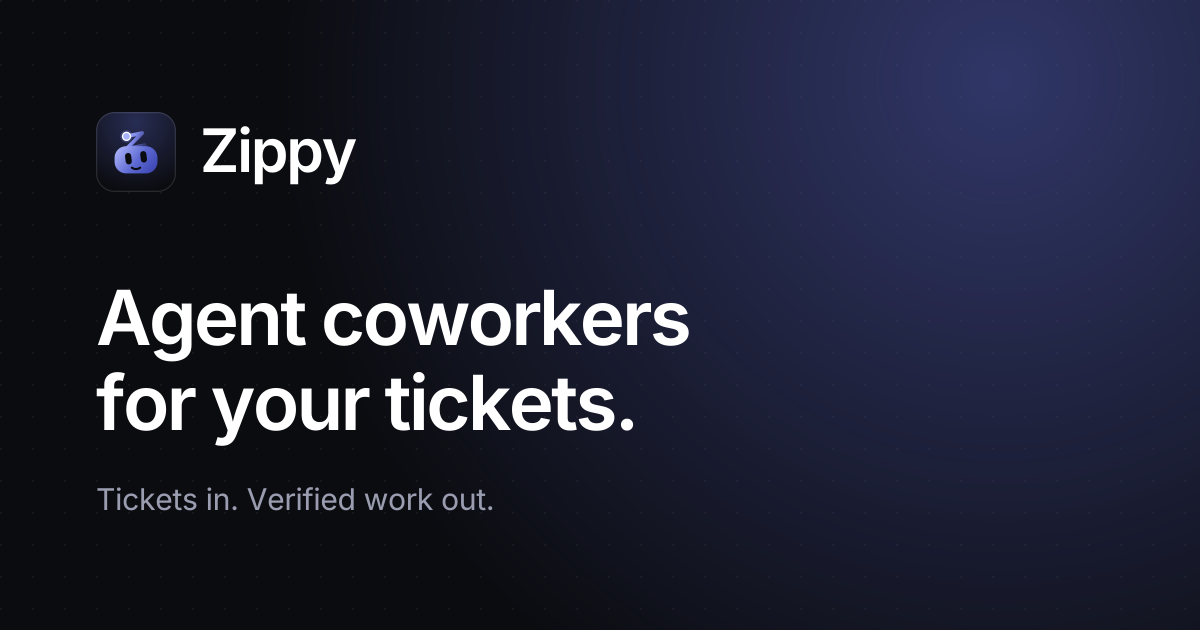
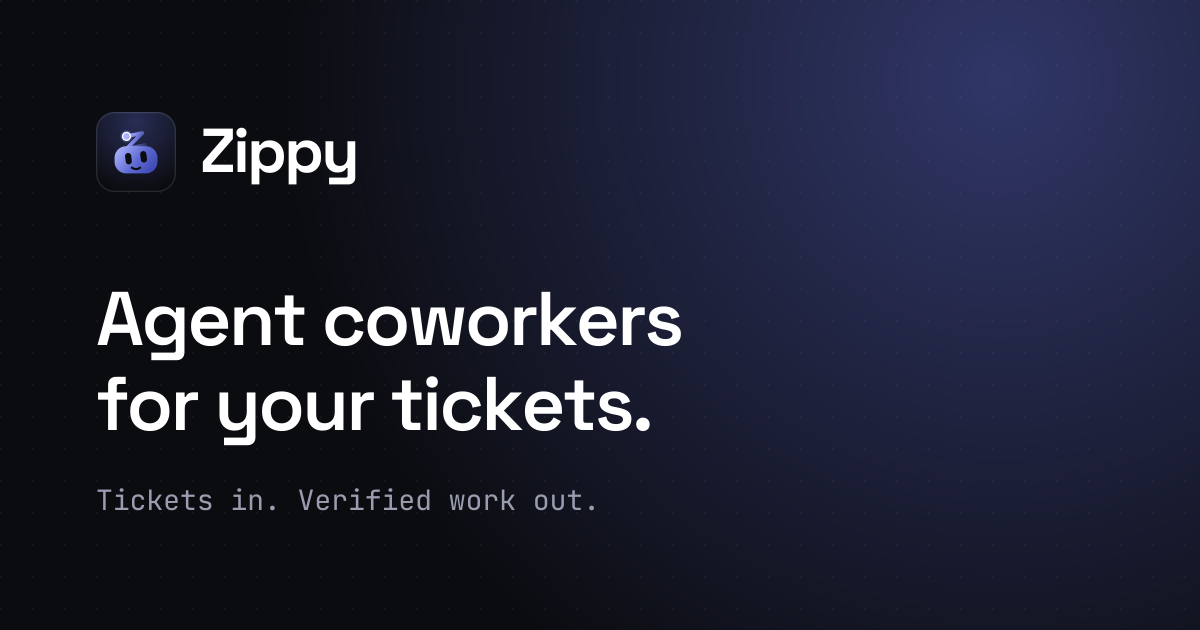
feat(web): Space Grotesk + JetBrains Mono brand typography

diff --git a/brand/brand-guide.html b/brand/brand-guide.html
@@ -1,11 +1,12 @@
 <!doctype html><html lang="en"><head><meta charset="utf-8"><meta name="viewport" content="width=device-width,initial-scale=1"><title>Zippy Brand</title>
+<link href="https://fonts.googleapis.com/css2?family=Space+Grotesk:wght@400;500;600;700&family=JetBrains+Mono:wght@400;500;700&display=swap" rel="stylesheet">
 <style>
 :root{--ink:#0B0C10;--i600:#4650C0;--i500:#5E6AD2;--i400:#7C86E8;--i200:#C4C9F5;--mist:#F6F6F8;--line:#E6E6EA}
-*{box-sizing:border-box}body{margin:0;font:15px/1.6 "Inter",-apple-system,system-ui,sans-serif;color:var(--ink);background:#fff;letter-spacing:-.01em}
+*{box-sizing:border-box}body{margin:0;font:15px/1.6 "Space Grotesk",-apple-system,system-ui,sans-serif;color:var(--ink);background:#fff;letter-spacing:-.01em}
 main{max-width:960px;margin:0 auto;padding:72px 24px}h1{font-size:44px;letter-spacing:-.04em;margin:0 0 8px}h2{font-size:12px;text-transform:uppercase;letter-spacing:.1em;color:#6b6f76;margin:72px 0 20px;font-weight:600}
 p{color:#4b4e55;max-width:560px}.grid{display:grid;gap:16px;grid-template-columns:repeat(auto-fit,minmax(200px,1fr))}.card{border:1px solid var(--line);border-radius:16px;padding:32px;display:flex;align-items:center;justify-content:center;min-height:160px}
 .dark{background:var(--ink)}.sw{border-radius:16px;height:120px;padding:14px;display:flex;align-items:flex-end;font:12px ui-monospace,Menlo,monospace}.sw b{display:block;font:600 13px Inter,sans-serif}
-img{max-width:100%}.mono{font-family:ui-monospace,"Geist Mono",Menlo,monospace}.t1{font-size:56px;font-weight:650;letter-spacing:-.04em;line-height:1.05}
+img{max-width:100%}.mono{font-family:"JetBrains Mono",ui-monospace,Menlo,monospace}.t1{font-size:56px;font-weight:650;letter-spacing:-.04em;line-height:1.05}
 </style></head><body><main>
 <h1>Zippy</h1><p>Agent coworkers for your tickets. Calm, precise, fast. Quiet indigo on deep ink; one gradient, used only on the mark.</p>
 <h2>Logo</h2><div class="grid"><div class="card"><img src="logo-horizontal.svg" height="48"></div><div class="card dark"><img src="logo-horizontal-dark.svg" height="48"></div><div class="card"><img src="logo-mark.svg" width="88"></div><div class="card dark"><img src="logo-app-icon.svg" width="88"></div></div>
@@ -18,6 +19,6 @@ img{max-width:100%}.mono{font-family:ui-monospace,"Geist Mono",Menlo,monospace}.
 <div class="sw" style="background:#C4C9F5"><div><b>Indigo 200</b>#C4C9F5</div></div>
 <div class="sw" style="background:#F6F6F8;border:1px solid var(--line)"><div><b>Mist</b>#F6F6F8</div></div></div>
 <p style="margin-top:16px">Mark gradient: <span class="mono">#7C86E8 → #4650C0</span>, 135°. Status colors stay in-app (success #4CB782, warn #F2C94C, danger #E5484D).</p>
-<h2>Typography</h2><div class="t1">Ship the ticket.</div><p>Inter Variable. Display 600–650, tracking −0.035em. Body 400–450, tracking −0.01em. Mono (handles, branches, diffs): Geist Mono / ui-monospace.</p>
+<h2>Typography</h2><div class="t1" style="font-weight:600">Ship the ticket.</div><p><b>Primary: Space Grotesk</b> (wordmark 700, headings 600, UI and body 400–500, tracking −0.04em on display). <b>Secondary: <span class="mono">JetBrains Mono</span></b> for ticket IDs, branches, agent handles, diffs, code and taglines. Both are variable Fontsource packages in the web app.</p><p class="mono" style="font-size:14px">@reviewer · FB-3 · feat/foldable-sidebar ✓ 12 passed</p>
 <h2>Social / OG</h2><img src="og.png" style="border-radius:16px;border:1px solid var(--line)"><p style="margin-top:16px">1200×630. Tagline: <em>Agent coworkers for your tickets.</em> Sub: <em>Tickets in. Verified work out.</em></p>
 </main></body></html>

diff --git a/apps/web/src/index.css b/apps/web/src/index.css
@@ -1,7 +1,8 @@
 @import "tailwindcss";
 @import "tw-animate-css";
 @import "shadcn/tailwind.css";
-@import "@fontsource-variable/inter";
+@import "@fontsource-variable/space-grotesk";
+@import "@fontsource-variable/jetbrains-mono";
 
 @custom-variant dark (&:is(.dark *));
 @custom-variant wide {
@@ -14,7 +15,8 @@
 
 @theme inline {
     --font-heading: var(--font-sans);
-    --font-sans: 'Inter Variable', -apple-system, BlinkMacSystemFont, 'Segoe UI', sans-serif;
+    --font-sans: 'Space Grotesk Variable', -apple-system, BlinkMacSystemFont, 'Segoe UI', sans-serif;
+    --font-mono: 'JetBrains Mono Variable', ui-monospace, SFMono-Regular, Menlo, monospace;
     --color-sidebar-ring: var(--sidebar-ring);
     --color-sidebar-border: var(--sidebar-border);
     --color-sidebar-accent-foreground: var(--sidebar-accent-foreground);
@@ -125,7 +127,6 @@
     }
   html {
     @apply font-sans antialiased;
-    font-feature-settings: "cv01", "ss03";
     }
   * { scrollbar-width: thin; scrollbar-color: color-mix(in oklab, var(--muted-foreground) 40%, transparent) transparent; }
   @supports selector(::-webkit-scrollbar) {

diff --git a/apps/web/src/pages/ticket.tsx b/apps/web/src/pages/ticket.tsx
@@ -84,7 +84,7 @@ export function TicketPage({ ticketId, embedded }: { ticketId?: string; embedded
             Issues
           </Link>
           <ChevronRight className="text-muted-foreground size-3.5 shrink-0" aria-hidden />
-          <span className="shrink-0 font-medium">{ticket.identifier}</span>
+          <span className="shrink-0 font-mono font-medium">{ticket.identifier}</span>
           <span className="truncate">{ticket.title}</span>
         </nav>
         <TicketMenu ticket={ticket} />
@@ -312,7 +312,7 @@ function TicketLinks({ title, items, search }: { title: string; items: RelatedTi
           <li key={r.id}>
             <Link to={`/t/${r.identifier}${search}`} className="hover:bg-accent flex h-8 items-center gap-2 rounded-md px-2">
               <StatusIcon status={r.status} />
-              <span className="text-muted-foreground shrink-0 tabular-nums">{r.identifier}</span>
+              <span className="text-muted-foreground shrink-0 font-mono text-xs tabular-nums">{r.identifier}</span>
               <span className="truncate">{r.title}</span>
             </Link>
           </li>

diff --git a/apps/web/src/pages/inbox.tsx b/apps/web/src/pages/inbox.tsx
@@ -133,7 +133,7 @@ export function InboxPage() {
                   <div className="flex items-center gap-2 text-xs">
                     <k.icon className={cn("size-3.5 shrink-0", k.color)} aria-hidden />
                     <span className="text-muted-foreground">{k.label}</span>
-                    <span className="text-muted-foreground tabular-nums">{item.ticket.identifier}</span>
+                    <span className="text-muted-foreground font-mono text-xs tabular-nums">{item.ticket.identifier}</span>
                     <span className="text-muted-foreground ml-auto">{ago(item.createdAt)}</span>
                   </div>
                   <p className="truncate text-[13px] font-medium">{item.ticket.title}</p>

diff --git a/apps/web/src/App.tsx b/apps/web/src/App.tsx
@@ -94,7 +94,7 @@ function Sidebar() {
       <div className="flex flex-col items-center gap-1 wide:flex-row wide:justify-between">
         <Link to="/" className="hover:bg-sidebar-accent flex h-8 items-center gap-2 rounded-md px-1 outline-none focus-visible:ring-2 focus-visible:ring-ring/60" aria-label="Zippy home">
           <img src="/favicon.svg" alt="" className="size-6 shrink-0" />
-          <span className="hidden text-[15px] font-semibold tracking-tight wide:inline">Zippy</span>
+          <span className="hidden text-base font-bold tracking-tight wide:inline">Zippy</span>
         </Link>
         <Tooltip>
           <TooltipTrigger asChild>

diff --git a/apps/web/src/pages/tickets.tsx b/apps/web/src/pages/tickets.tsx
@@ -146,7 +146,7 @@ function Row({ t, agent, orgId }: { t: Ticket; agent?: Agent; orgId: string }) {
       >
         <PriorityIcon priority={t.priority} />
         <span className="sr-only">{PRIORITY_LABEL[t.priority]},</span>
-        <span className="text-muted-foreground w-16 shrink-0 tabular-nums">{t.identifier}</span>
+        <span className="text-muted-foreground w-16 shrink-0 font-mono text-xs tabular-nums">{t.identifier}</span>
         <StatusIcon status={t.status} />
         <span className="sr-only">{STATUS[t.status].label}:</span>
         <span className="min-w-0 flex-1 truncate font-medium">{t.title}</span>
